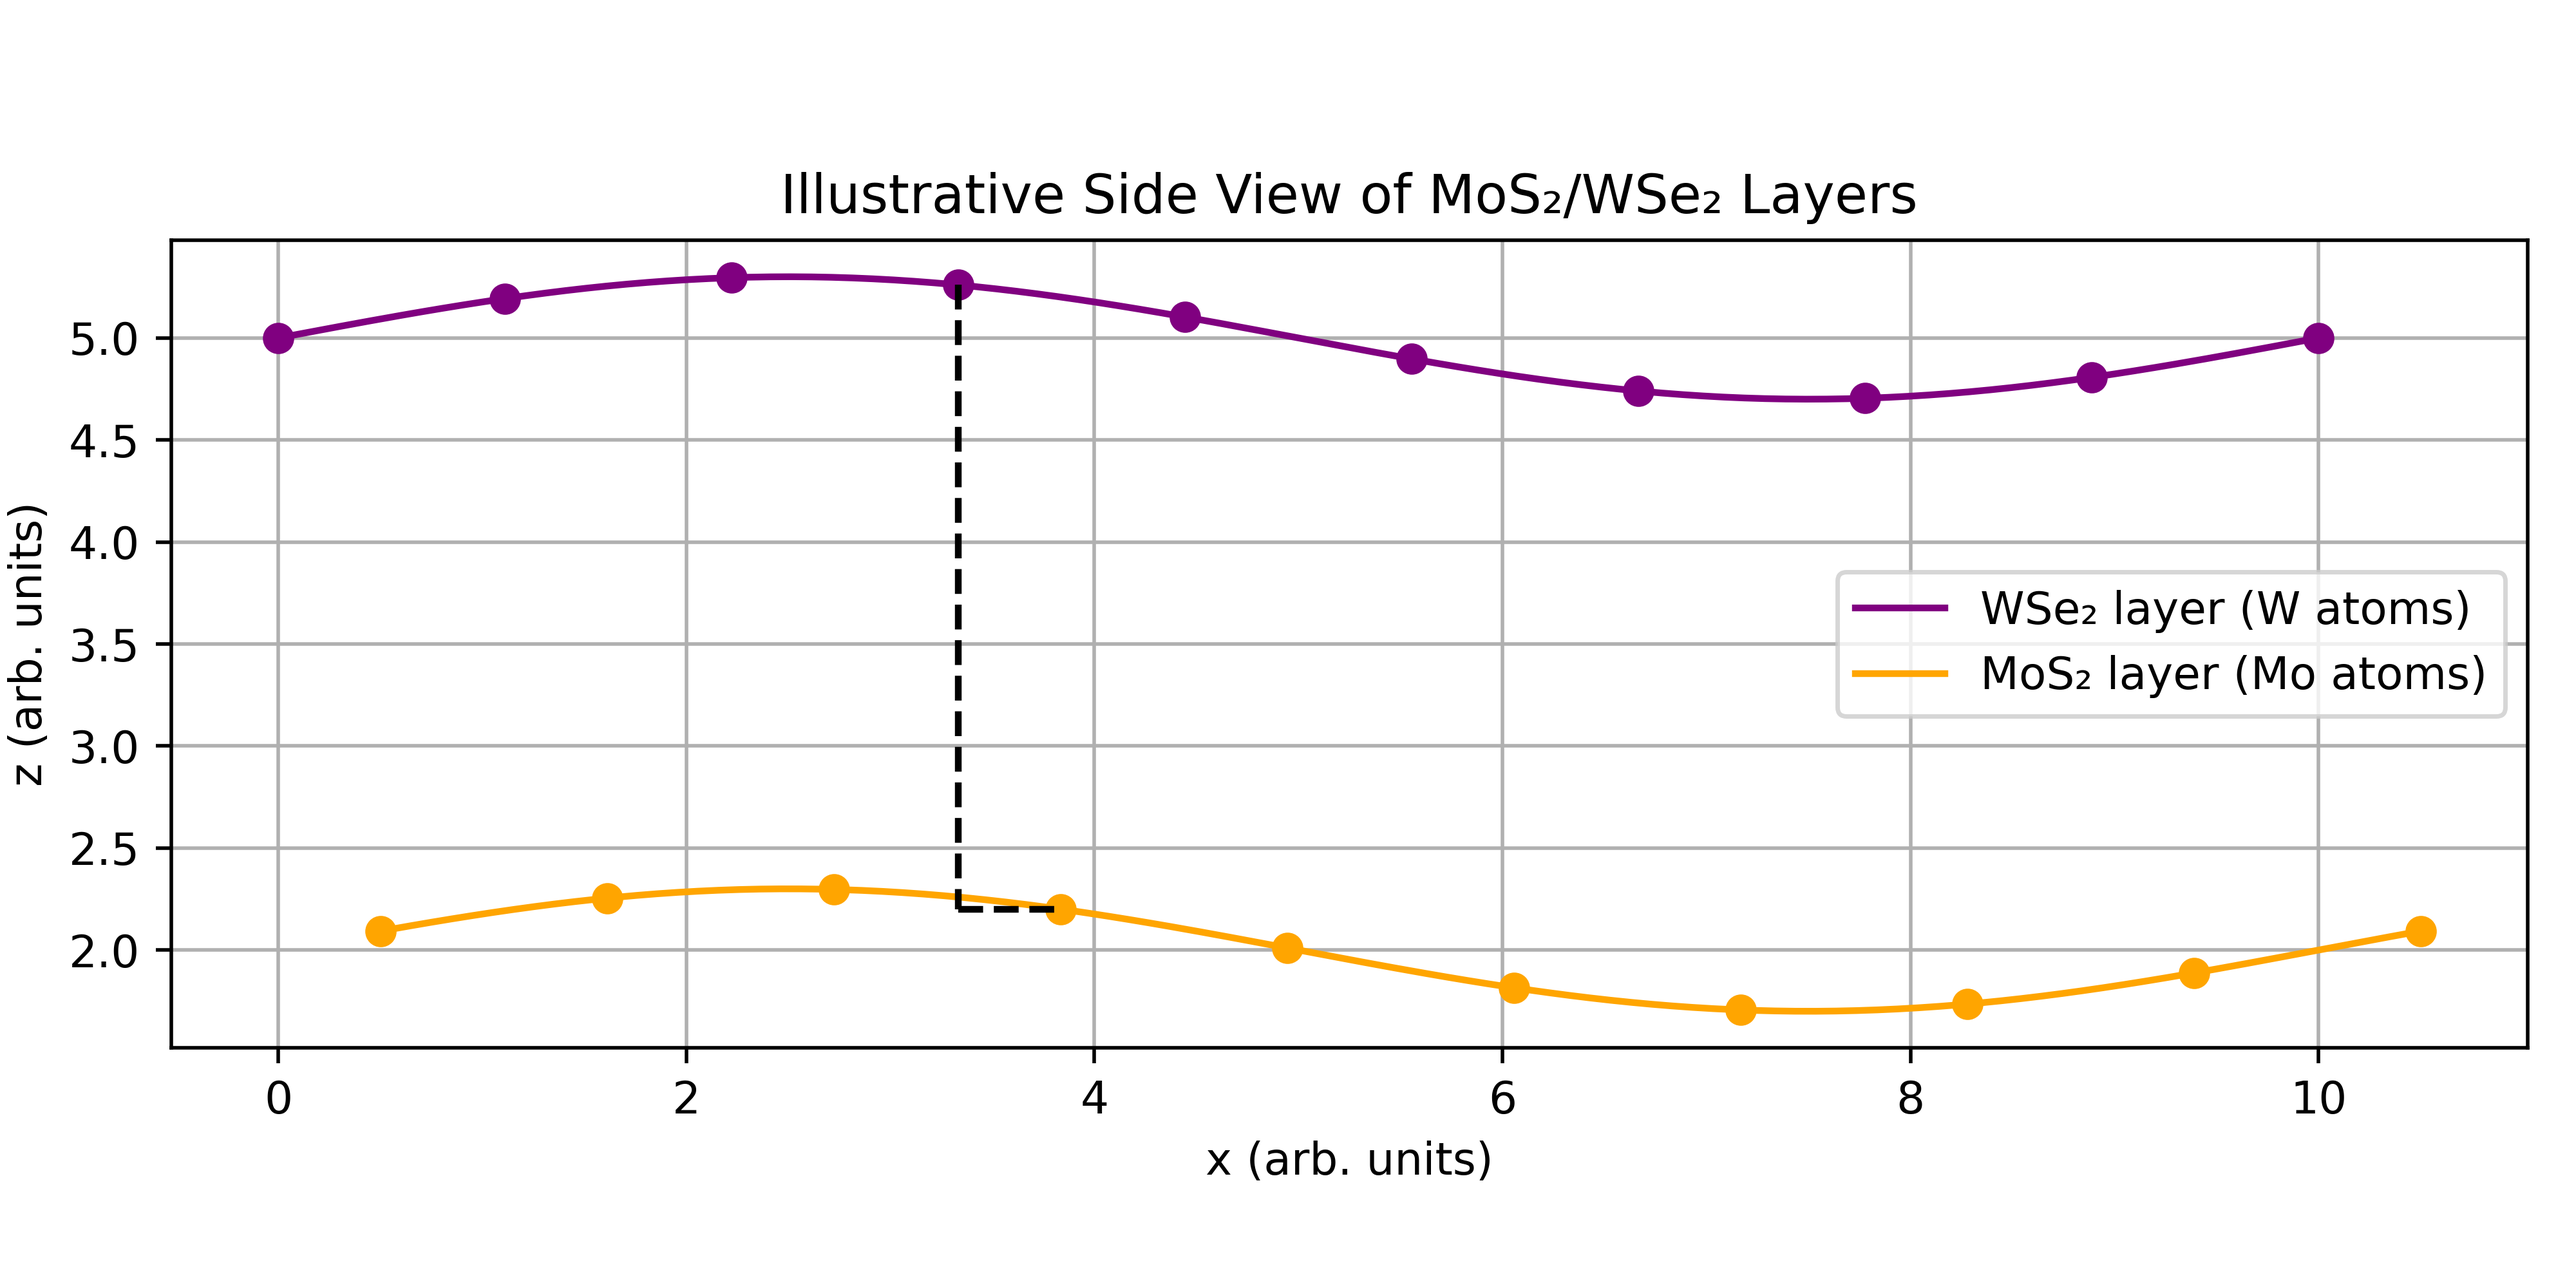
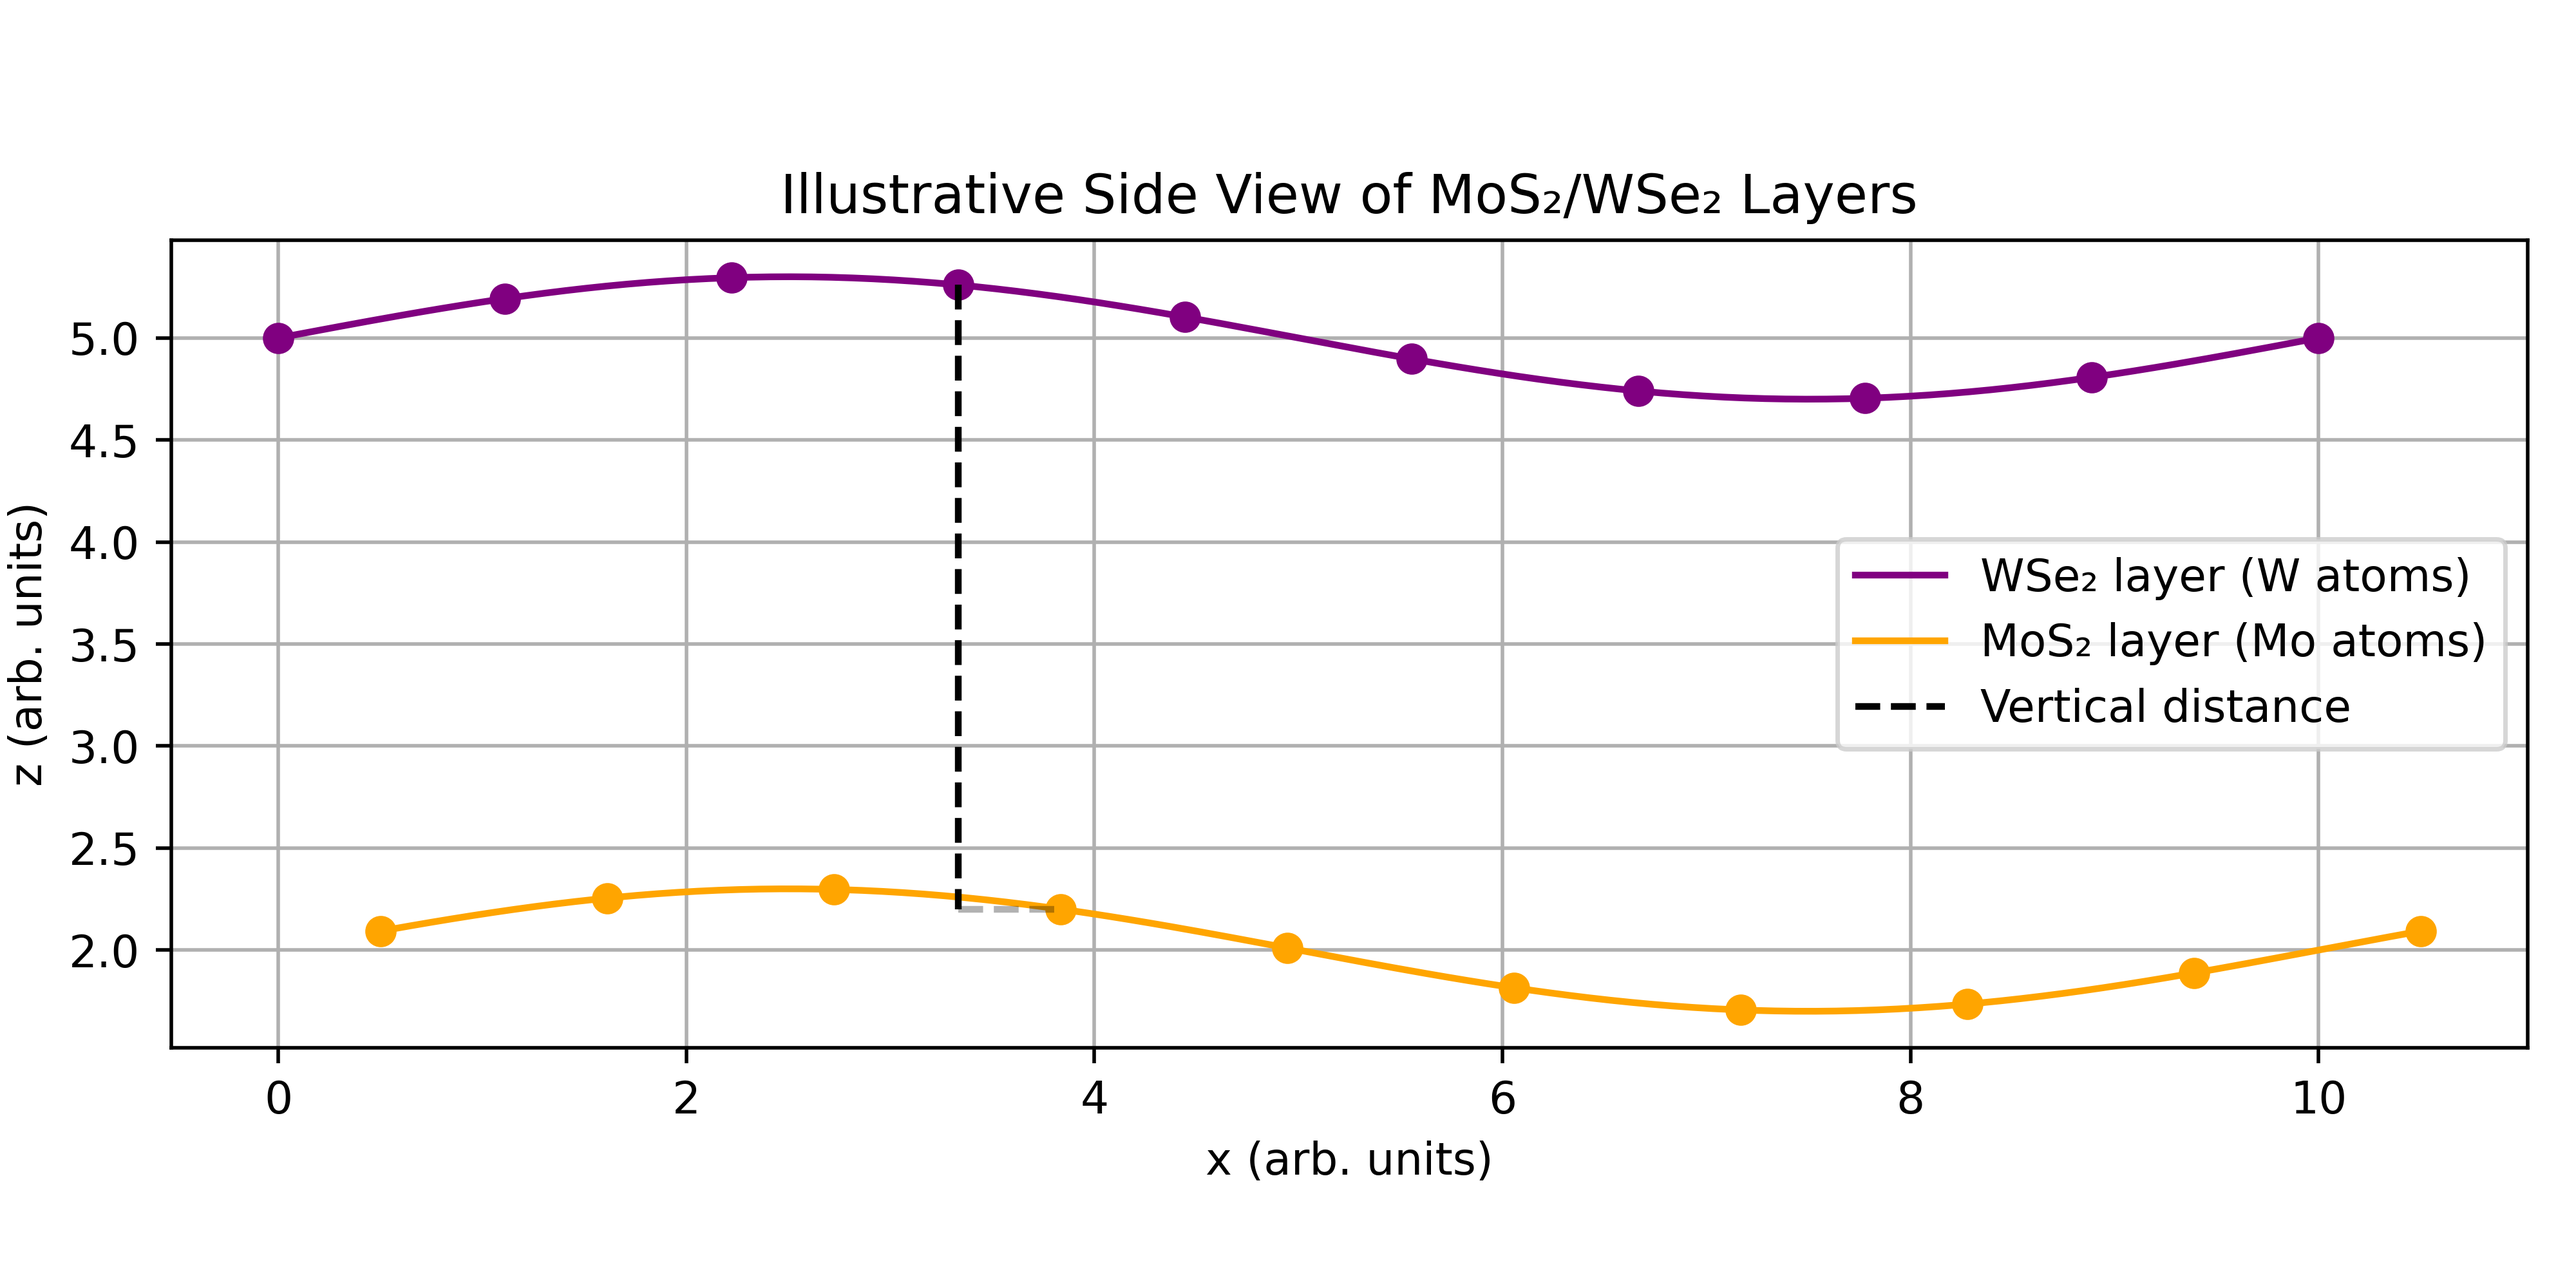
Minor sketch changes

Changed region(s): [[0.7188, 0.403, 0.9688, 0.589], [0.375, 0.682, 0.4062, 0.713]]

diff --git a/scripts/sketches/vertical_dist.py b/scripts/sketches/vertical_dist.py
@@ -38,8 +38,8 @@ x_mo = x_atoms_shifted[i]
 z_mo = z_atoms_bottom[i]
 
 # Vertical + horizontal connector
-ax.plot([x_w, x_w], [z_w, z_mo], 'k--')     # vertical
-ax.plot([x_w, x_mo], [z_mo, z_mo], 'k--')   # horizontal
+ax.plot([x_w, x_w], [z_w, z_mo], 'k--', label="Vertical distance")
+ax.plot([x_w, x_mo], [z_mo, z_mo], 'k--', alpha=0.3)
 
 # Formatting
 ax.set_title('Illustrative Side View of MoS₂/WSe₂ Layers')
